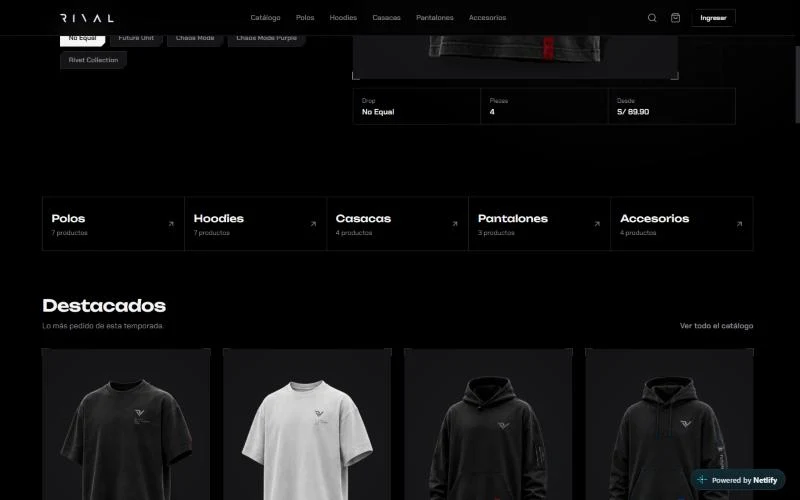
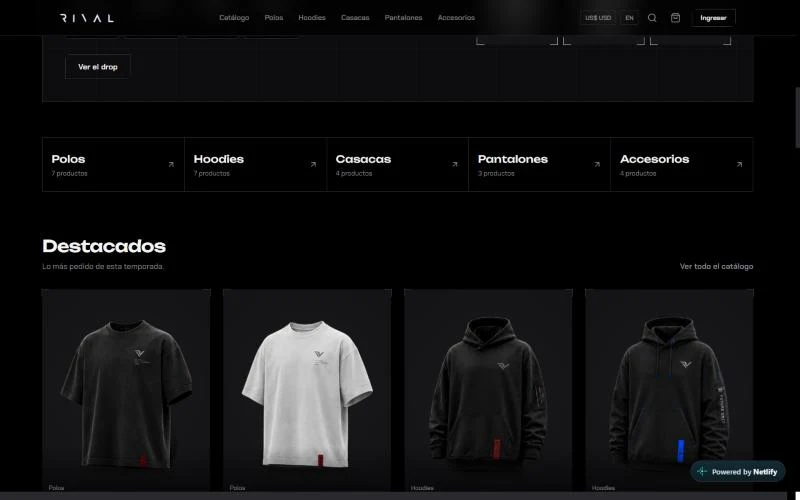
Actualiza FixGo y Rivals con sus nuevos diseños
FixGo: capturas de la landing y de la demo (tablero, órdenes, historial,
mapa), link en vivo en Vercel. Rivals: capturas nuevas con drops con cuenta
regresiva, descuentos y precios en soles o dólares.

Claude-Session: https://claude.ai/code/session_01QBE9EQsRfNtT8jz1PNFcn3

diff --git a/src/data/projects.js b/src/data/projects.js
@@ -19,7 +19,7 @@ export const PROJECTS = [
   {
     name: 'Rivals',
     sub: 'Ecommerce de ropa urbana futurista que se vende en drops de edición limitada.',
-    body: 'Catálogo con filtros por categoría, colección, talla y color, fichas de producto con variantes, carrito y cuentas de usuario. Backend en .NET 8 con arquitectura por capas (API, Application, Domain, Infrastructure), Entity Framework Core y datos de ejemplo que se cargan solos al iniciar.',
+    body: 'Drops con cuenta regresiva, descuentos por tiempo limitado, stock en vivo ("Quedan 4"), favoritos y envío gratis desde cierto monto. Precios en soles o dólares e interfaz en español o inglés. Catálogo con filtros, fichas con tallas, carrito y cuentas. Backend .NET 8 por capas (API, Application, Domain, Infrastructure) con Entity Framework Core.',
     tags: [
       'React 18',
       'TypeScript',
@@ -40,9 +40,9 @@ export const PROJECTS = [
     live: 'https://rivals-futurewear-demo.netlify.app/',
     gallery: [
       ['/img/rivals-home.webp', 'Portada de Rivals: Futurewear for the bold, con selector de drops'],
+      ['/img/rivals-drop.webp', 'Drop limitado de Rivet Collection con cuenta regresiva'],
       ['/img/rivals-destacados.webp', 'Categorías y productos destacados'],
-      ['/img/rivals-catalogo.webp', 'Catálogo del drop No Equal con filtros'],
-      ['/img/rivals-producto.webp', 'Ficha de producto con tallas y cantidad'],
+      ['/img/rivals-producto.webp', 'Ficha de producto con tallas, favoritos y envío gratis'],
     ],
   },
   {
@@ -141,7 +141,7 @@ export const PROJECTS = [
   {
     name: 'FixGo',
     sub: 'SaaS multitenant y marketplace para talleres automotrices.',
-    body: 'Una sola plataforma para muchos talleres: arquitectura multitenant donde cada taller (tenant) ve solo sus mecánicos, clientes, vehículos y órdenes de trabajo, separados por taller en la misma base de datos. Backend por capas con Dapper, Unit of Work y API en ASP.NET, y frontend en React con Tailwind.',
+    body: 'El cliente aprueba el presupuesto desde el celular. Tablero por etapas, historial por placa y un mapa donde los conductores encuentran el taller; dueño, mecánico y cliente ven cada uno lo suyo. Multitenant: cada taller ve solo sus datos dentro de la misma base. Backend por capas con Dapper, Unit of Work y ASP.NET.',
     tags: [
       'React',
       'TypeScript',
@@ -157,7 +157,16 @@ export const PROJECTS = [
       'PostgreSQL',
     ],
     repo: 'https://github.com/adrijonas16/FixGo',
-    gallery: [['/img/fixgo-banner.webp', 'Banner de FixGo: servicios automotrices claros y rápidos']],
+    deploy: 'Vercel',
+    live: 'https://fixgo-tau.vercel.app/',
+    gallery: [
+      ['/img/fixgo-home.webp', 'Portada de FixGo: el cliente aprueba la reparación desde el celular'],
+      ['/img/fixgo-dashboard.webp', 'Hoy en el taller: indicadores y tablero por etapas'],
+      ['/img/fixgo-ordenes.webp', 'Órdenes de trabajo con estado, presupuesto y detalle del vehículo'],
+      ['/img/fixgo-historial.webp', 'Historial completo del carro buscando por placa'],
+      ['/img/fixgo-mapa.webp', 'Mapa de sedes del taller'],
+      ['/img/fixgo-conductores.webp', 'Lo que ve el conductor: talleres cerca, calificaciones y emergencias 24 h'],
+    ],
   },
   {
     name: 'HuellaGo',
